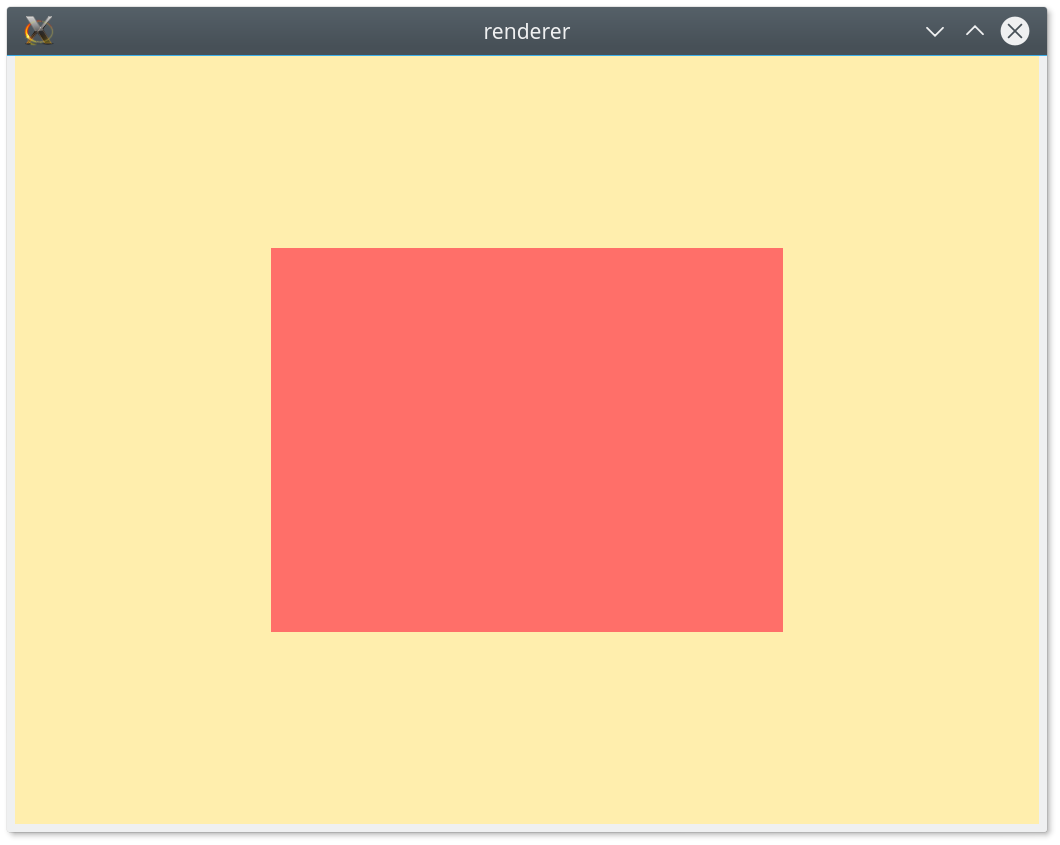
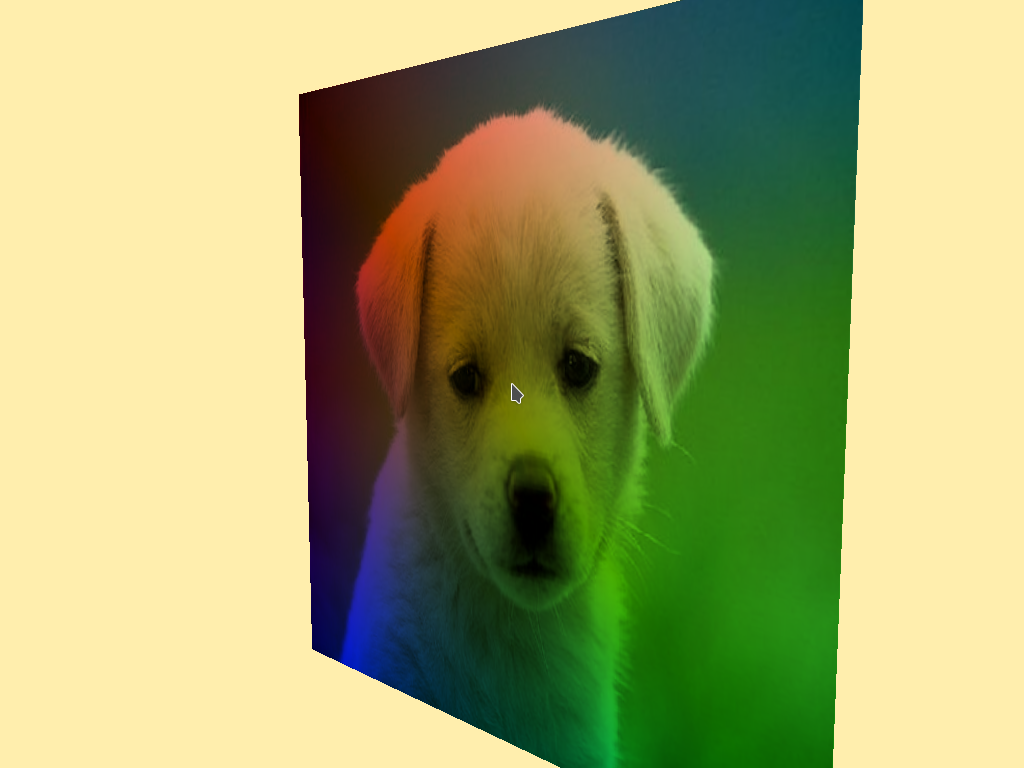
Fix camera and update screenshot

diff --git a/src/main.cpp b/src/main.cpp
@@ -72,7 +72,8 @@ int main(int argc, char** argv) {
 
     glfwSetCursorPosCallback(window, cursorPos);
 
-    Camera camera(glm::vec3(0,0, -3));
+    Camera camera(glm::vec3(0,0, 3));
+    camera.pan(glm::radians(180.0f));
 
     const glm::vec2 SCREEN_SIZE(1024, 768);
     const auto ratio = SCREEN_SIZE.x / SCREEN_SIZE.y;
@@ -89,10 +90,10 @@ int main(int argc, char** argv) {
 
         float vertices[] = {
             // positions          // colors           // texture coords
-            0.5f,  0.5f, 0.0f,   1.0f, 0.0f, 0.0f,    1.0f, 1.0f,   // top right
+            0.5f,  0.5f, 0.0f,   1.0f, 1.0f, 1.0f,    1.0f, 1.0f,   // top right
             0.5f, -0.5f, 0.0f,   0.0f, 1.0f, 0.0f,    1.0f, 0.0f,   // bottom right
             -0.5f, -0.5f, 0.0f,   0.0f, 0.0f, 1.0f,   0.0f, 0.0f,   // bottom left
-            -0.5f,  0.5f, 0.0f,   1.0f, 1.0f, 0.0f,   0.0f, 1.0f    // top left
+            -0.5f,  0.5f, 0.0f,   1.0f, 0.0f, 0.0f,   0.0f, 1.0f    // top left
         };
         unsigned int indices[] = {
             0, 1, 3,
